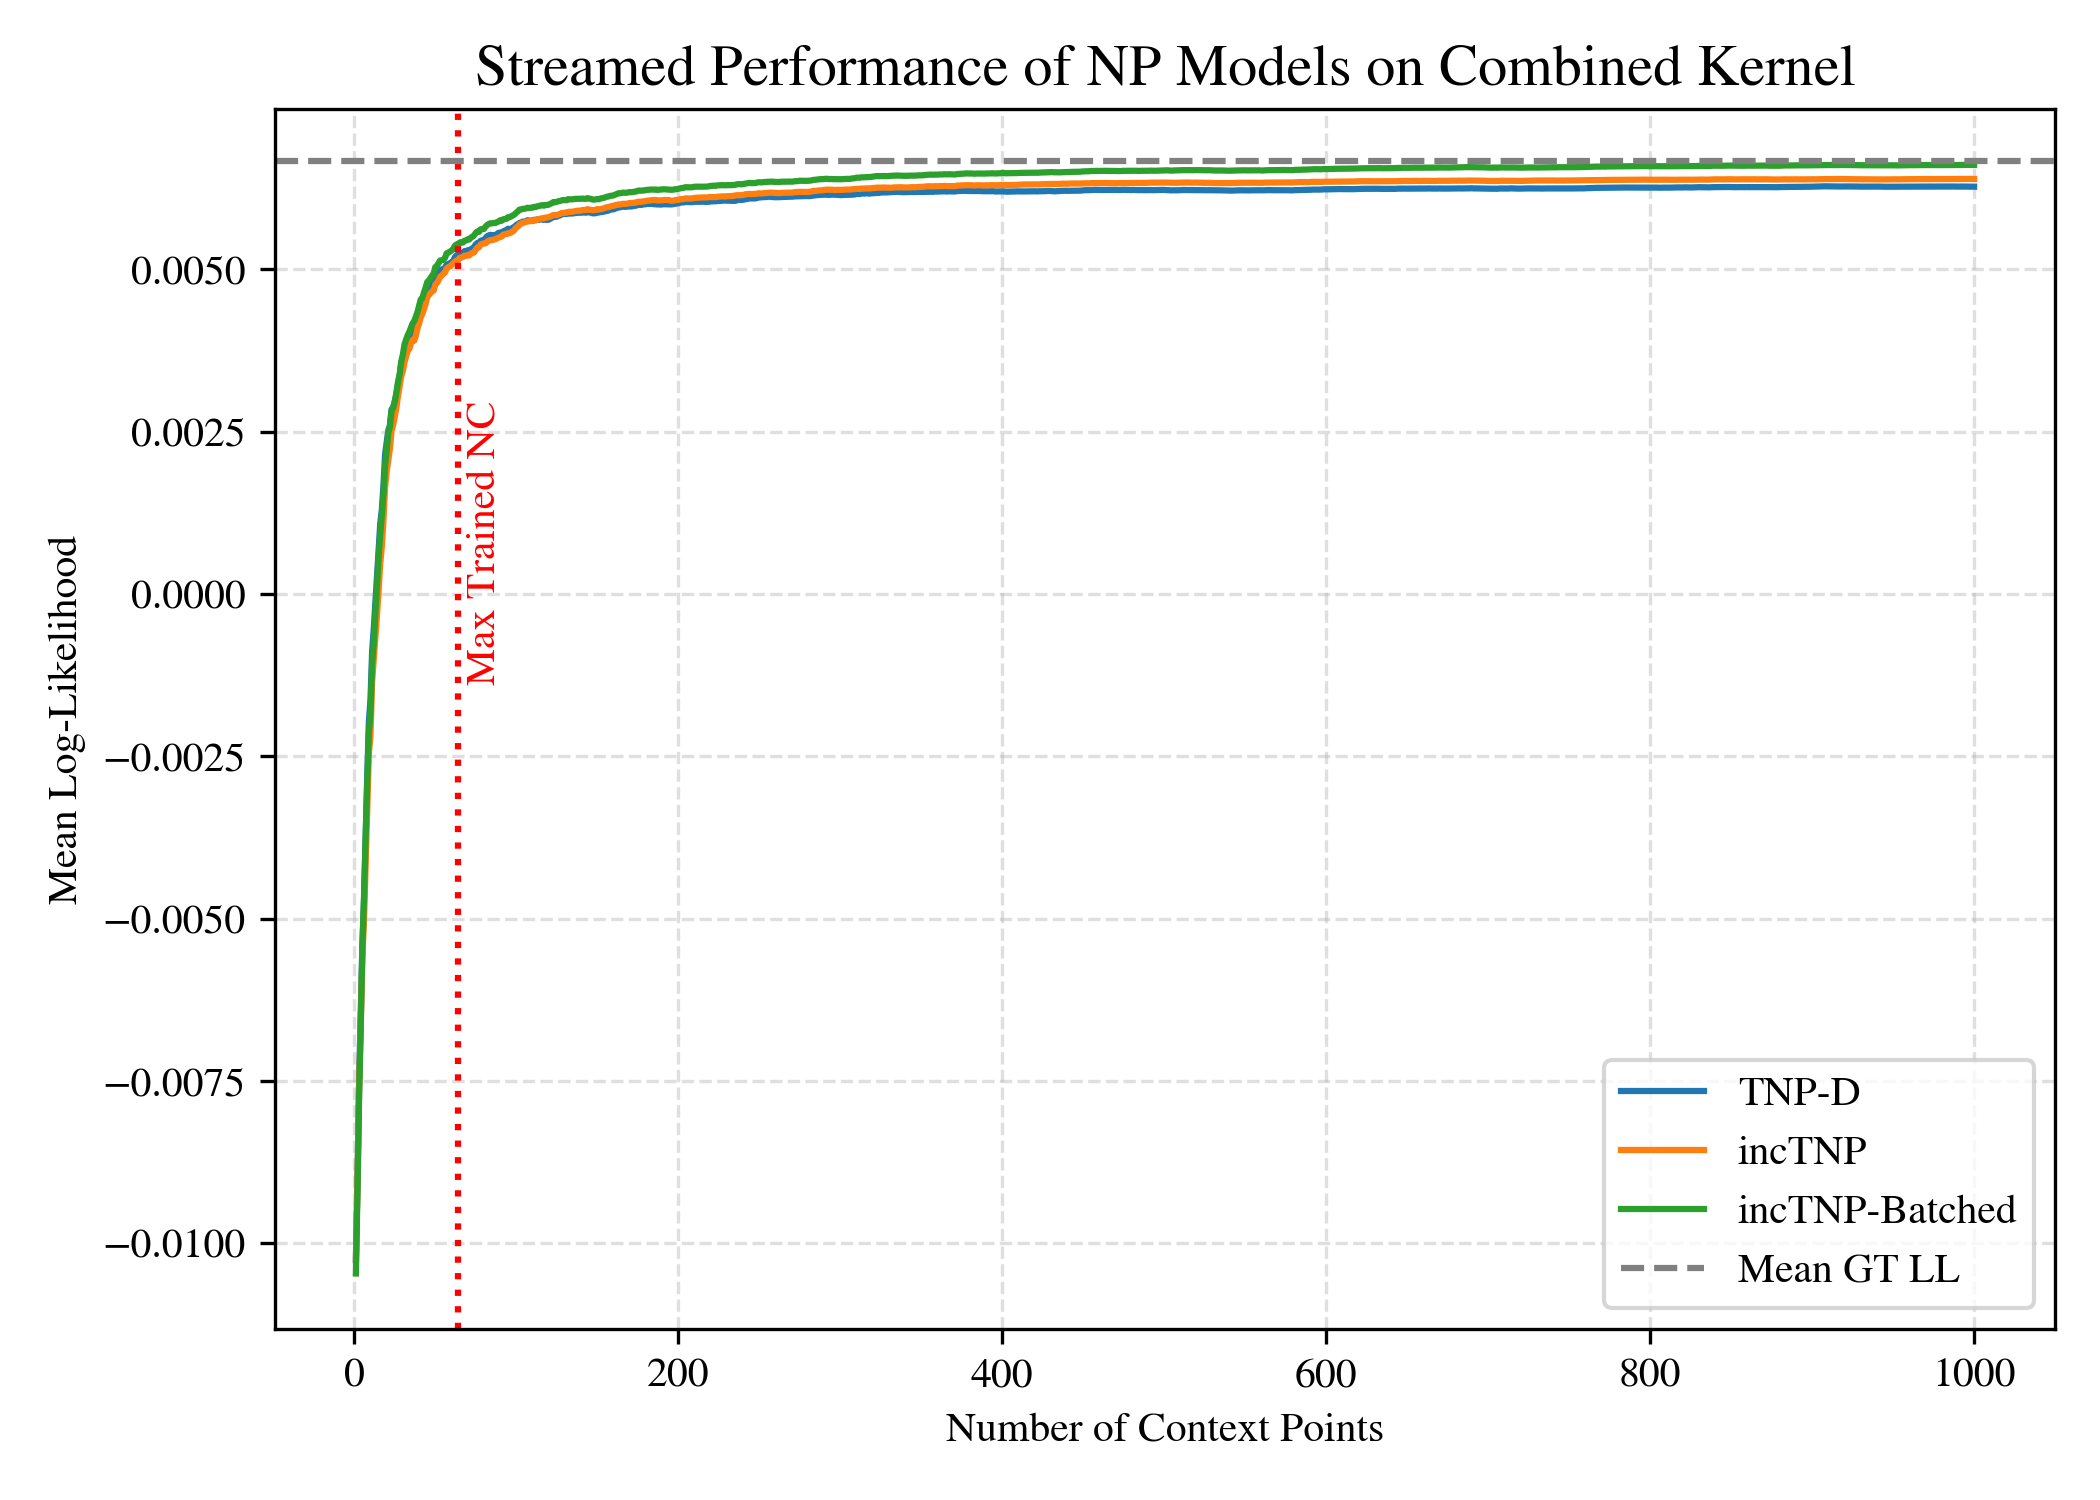
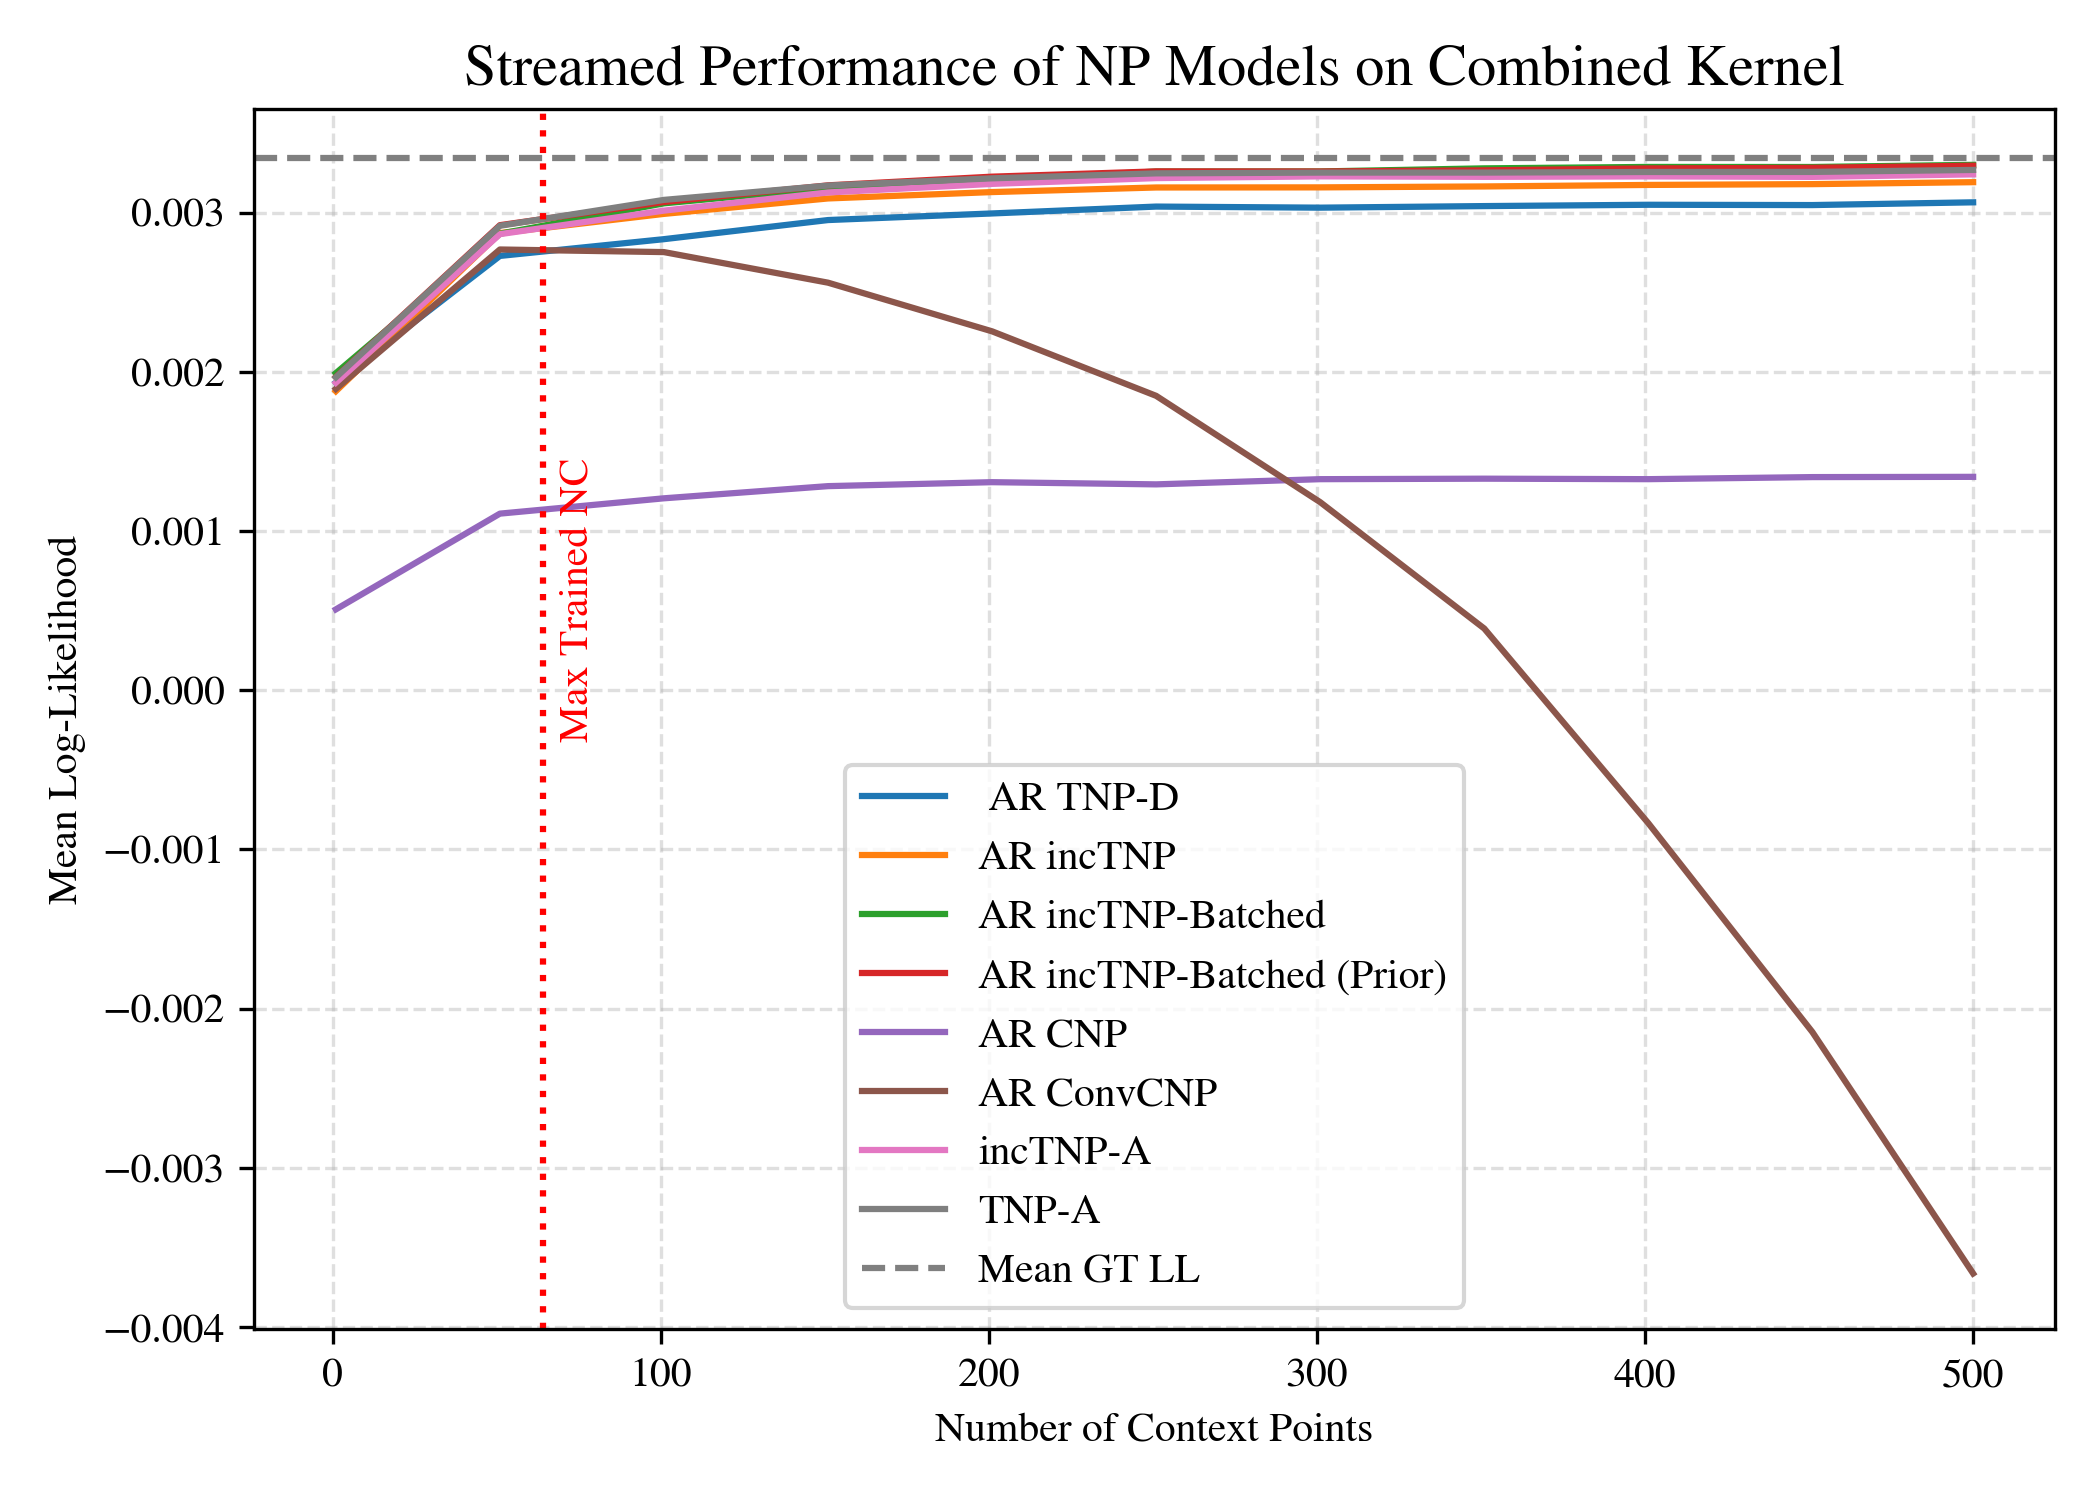
Plots showing that convcnp tails off over time and cnp offers inferior performance

diff --git a/experiments/llstream.py b/experiments/llstream.py
@@ -14,12 +14,35 @@ import torch
 import matplotlib.pyplot as plt
 import matplotlib
 from tqdm import tqdm
+from arnp import ar_loglik
 
 
 matplotlib.rcParams["mathtext.fontset"] = "stix"
 matplotlib.rcParams["font.family"] = "STIXGeneral"
 matplotlib.rcParams["axes.titlesize"]= 14
 
+def get_rbf_rangesame_testset(nc: int, nt: int, batch_size: int):
+    # RBF Dataset
+    min_nc = nc
+    max_nc = nc
+    nt = nt
+    context_range = [[-2.0, 2.0]]
+    target_range = [[-2.0, 2.0]]
+    samples_per_epoch = 4_096
+    batch_size = batch_size
+    noise_std = 0.1
+    deterministic = True
+    ard_num_dims = 1
+    min_log10_lengthscale = -0.602
+    max_log10_lengthscale = 0.0
+    rbf_kernel_factory = partial(RBFKernel, ard_num_dims=ard_num_dims, min_log10_lengthscale=min_log10_lengthscale,
+                         max_log10_lengthscale=max_log10_lengthscale)
+    kernels = [rbf_kernel_factory]
+    gen_test = RandomScaleGPGenerator(dim=1, min_nc=min_nc, max_nc=max_nc, min_nt=nt, max_nt=nt, batch_size=batch_size,
+        context_range=context_range, target_range=target_range, samples_per_epoch=samples_per_epoch, noise_std=noise_std,
+        deterministic=deterministic, kernel=kernels)
+    data = list(gen_test)
+    return data, "RBF Kernel"
 
 # Gets combined dataset with specific number of context points
 def get_combined_rangesame_testset(nc: int, nt: int, batch_size: int):
@@ -57,35 +80,111 @@ def get_combined_rangesame_testset(nc: int, nt: int, batch_size: int):
 def get_model_list_combined():
     # List of models to compare trained on combined kernel
     tnp_plain = ('experiments/configs/synthetic1d/gp_plain_tnp_rangesame.yml',
-        'pm846-university-of-cambridge/plain-tnp-rangesame/model-fyr9u053:v200', 'TNP-D')
+        'pm846-university-of-cambridge/plain-tnp-rangesame/model-fyr9u053:v200', 'TNP-D', False)
     incTNP = ('experiments/configs/synthetic1d/gp_causal_tnp_rangesame.yml', 
-        'pm846-university-of-cambridge/mask-tnp-rangesame/model-l69k9pix:v200', 'incTNP')
+        'pm846-university-of-cambridge/mask-tnp-rangesame/model-l69k9pix:v200', 'incTNP', False)
     batchedTNP = ('experiments/configs/synthetic1d/gp_batched_causal_tnp_rangesame.yml',
-        'pm846-university-of-cambridge/mask-batched-tnp-rangesame/model-lmywe04f:v200', 'incTNP-Batched')
-    priorBatched = ('experiments/configs/synthetic1d/gp_priorbatched_causal_tnp_rbf_rangesame.yml',
-        'pm846-university-of-cambridge/mask-priorbatched-tnp-combined-rangesame/model-xdgnof8x:v200', 'incTNP-Batched (Prior)')
+        'pm846-university-of-cambridge/mask-batched-tnp-rangesame/model-lmywe04f:v200', 'incTNP-Batched', False)
+    priorBatched = ('experiments/configs/synthetic1d/gp_priorbatched_causal_tnp_combined_rangesame.yml',
+        'pm846-university-of-cambridge/mask-priorbatched-tnp-combined-rangesame/model-xdgnof8x:v200', 'incTNP-Batched (Prior)', False)
     cnp = ('experiments/configs/synthetic1d/gp_cnp_rangesame.yml',
-        'pm846-university-of-cambridge/cnp-combined-rangesame/model-1pzsub0x:v200', 'CNP')
+        'pm846-university-of-cambridge/cnp-combined-rangesame/model-1pzsub0x:v200', 'CNP', False)
     conv_cnp = ('experiments/configs/synthetic1d/gp_convcnp_rangesame.yml',
-        'pm846-university-of-cambridge/convcnp-combined-rangesame/model-awxl9sr4:v200', 'ConvCNP')
+        'pm846-university-of-cambridge/convcnp-combined-rangesame/model-awxl9sr4:v200', 'ConvCNP', False)
+    models_plain = [tnp_plain, incTNP, batchedTNP, priorBatched, cnp, conv_cnp]
+    # TNP-A Class models
     inctnpa = ('experiments/configs/synthetic1d/gp_inctnpa_rangesame.yml',
-        'pm846-university-of-cambridge/inctnpa/model-dnbp0124:v199', "incTNP-A")
+        'pm846-university-of-cambridge/inctnpa/model-dnbp0124:v199', "incTNP-A", False)
     tnpa = ('experiments/configs/synthetic1d/gp_tnpa_rangesame.yml',
-        'pm846-university-of-cambridge/tnpa/model-56ktaaqp:v199', "TNP-A")
-    models = [tnp_plain, incTNP, batchedTNP, priorBatched, conv_cnp, cnp, inctnpa, tnpa]
-    return models
+        'pm846-university-of-cambridge/tnpa/model-56ktaaqp:v199', "TNP-A", False)
+    models_a = [inctnpa, tnpa]
+    # AR NPS
+    ar_tnp = ('experiments/configs/synthetic1d/gp_plain_tnp_rangesame.yml',
+        'pm846-university-of-cambridge/plain-tnp-rangesame/model-fyr9u053:v200', ' AR TNP-D', True)
+    ar_inctnp = ('experiments/configs/synthetic1d/gp_causal_tnp_rangesame.yml', 
+        'pm846-university-of-cambridge/mask-tnp-rangesame/model-l69k9pix:v200', 'AR incTNP', True)
+    ar_batchedtnp = ('experiments/configs/synthetic1d/gp_batched_causal_tnp_rangesame.yml',
+        'pm846-university-of-cambridge/mask-batched-tnp-rangesame/model-lmywe04f:v200', 'AR incTNP-Batched', True)
+    ar_priorbatched =('experiments/configs/synthetic1d/gp_priorbatched_causal_tnp_combined_rangesame.yml',
+        'pm846-university-of-cambridge/mask-priorbatched-tnp-combined-rangesame/model-xdgnof8x:v200', 'AR incTNP-Batched (Prior)', True)
+    ar_cnp = ('experiments/configs/synthetic1d/gp_cnp_rangesame.yml',
+        'pm846-university-of-cambridge/cnp-combined-rangesame/model-1pzsub0x:v200', 'AR CNP', True)
+    ar_conv_cnp = ('experiments/configs/synthetic1d/gp_convcnp_rangesame.yml',
+        'pm846-university-of-cambridge/convcnp-combined-rangesame/model-awxl9sr4:v200', 'AR ConvCNP', True)
+    models_ar = [ar_tnp, ar_inctnp, ar_batchedtnp, ar_priorbatched, ar_cnp, ar_conv_cnp]
+    # Return
+    models_combined = models_plain + models_ar + models_a
+    return models_ar + models_a
 
-def stream_data_test_combined():
+def get_model_list_rbf():
+    # List of models to compare trained on rbf kernel
+    tnp_plain = ('experiments/configs/synthetic1dRBF/gp_plain_tnp_rangesame.yml',
+        'pm846-university-of-cambridge/plain-tnp-rbf-rangesame/model-a3qwpptn:v200', 'TNP-D', False)
+    incTNP = ('experiments/configs/synthetic1dRBF/gp_causal_tnp_rangesame.yml', 
+        'pm846-university-of-cambridge/mask-tnp-rbf-rangesame/model-8mxfyfnw:v200', 'incTNP', False)
+    batchedTNP = ('experiments/configs/synthetic1dRBF/gp_batched_causal_tnp_rbf_rangesame.yml',
+        'pm846-university-of-cambridge/mask-batched-tnp-rbf-rangesame/model-xtnh0z37:v200', 'incTNP-Batched', False)
+    priorBatched = ('experiments/configs/synthetic1dRBF/gp_priorbatched_causal_tnp_rbf_rangesame.yml',
+        'pm846-university-of-cambridge/mask-priorbatched-tnp-rbf-rangesame/model-smgj3gn6:v200', 'incTNP-Batched (Prior)', False)
+    cnp = ('experiments/configs/synthetic1dRBF/gp_cnp_rangesame.yml',
+        'pm846-university-of-cambridge/cnp-rbf-rangesame/model-uywfyrx7:v200', 'CNP', False)
+    conv_cnp = ('experiments/configs/synthetic1dRBF/gp_convcnp_rangesame.yml',
+        'pm846-university-of-cambridge/convcnp-rbf-rangesame/model-uj54q1ya:v200', 'ConvCNP', False)
+    models_plain = [tnp_plain, incTNP, batchedTNP, priorBatched, cnp, conv_cnp]
+    # TNP-A Class models
+    inctnpa = ('experiments/configs/synthetic1dRBF/gp_inctnpa_rangesame.yml',
+        'pm846-university-of-cambridge/inctnpa-rbf-rangesame/model-5ob47t8l:v199', "incTNP-A", False)
+    tnpa = ('experiments/configs/synthetic1dRBF/gp_tnpa_rangesame.yml',
+        'pm846-university-of-cambridge/tnpa-rbf-rangesame/model-e6yry1ri:v199', "TNP-A", False)
+    models_a = [inctnpa, tnpa]
+    # AR NPS
+    ar_tnp = ('experiments/configs/synthetic1dRBF/gp_plain_tnp_rangesame.yml',
+        'pm846-university-of-cambridge/plain-tnp-rbf-rangesame/model-a3qwpptn:v200', 'TNP-D', True)
+    ar_inctnp = ('experiments/configs/synthetic1dRBF/gp_causal_tnp_rangesame.yml', 
+        'pm846-university-of-cambridge/mask-tnp-rbf-rangesame/model-8mxfyfnw:v200', 'incTNP', True)
+    ar_batchedtnp = ('experiments/configs/synthetic1dRBF/gp_batched_causal_tnp_rbf_rangesame.yml',
+        'pm846-university-of-cambridge/mask-batched-tnp-rbf-rangesame/model-xtnh0z37:v200', 'incTNP-Batched', True)
+    ar_priorbatched = ('experiments/configs/synthetic1dRBF/gp_priorbatched_causal_tnp_rbf_rangesame.yml',
+        'pm846-university-of-cambridge/mask-priorbatched-tnp-rbf-rangesame/model-smgj3gn6:v200', 'incTNP-Batched (Prior)', True)
+    ar_cnp = ('experiments/configs/synthetic1dRBF/gp_cnp_rangesame.yml',
+        'pm846-university-of-cambridge/cnp-rbf-rangesame/model-uywfyrx7:v200', 'CNP', True)
+    ar_conv_cnp = ('experiments/configs/synthetic1dRBF/gp_convcnp_rangesame.yml',
+        'pm846-university-of-cambridge/convcnp-rbf-rangesame/model-uj54q1ya:v200', 'ConvCNP', True)
+    models_ar = [ar_tnp, ar_inctnp, ar_batchedtnp, ar_priorbatched, ar_cnp, ar_conv_cnp]
+    # Return
+    models_combined = models_plain + models_ar + models_a
+    return models_ar + models_a
+
+
+def stream_data_test_rbf():
     # Hypers
-    burn_in = 1
+    burn_in = 0
     aggregate_over = 1
     batch_size = 16
-    max_batches = 4 # Set to None for no limit
-    max_nc = 1000
+    max_batches = 1 # Set to None for no limit
+    max_nc = 500
     nt = 128
     start_ctx = 1
     end_ctx = max_nc
-    ctx_step = 1
+    ctx_step = 50
+    trained_ctx_end = 64
+    device="cuda"
+    folder = "experiments/plot_results/llstream/"
+    # End of hypers
+    stream_data_test(get_rbf_rangesame_testset(max_nc, nt, batch_size), get_model_list_rbf(), max_nc, nt, start_ctx, end_ctx, ctx_step, device, folder, trained_ctx_end, max_batches, burn_in, aggregate_over)
+
+
+def stream_data_test_combined():
+    # Hypers
+    burn_in = 0
+    aggregate_over = 1
+    batch_size = 16
+    max_batches = 1 # Set to None for no limit
+    max_nc = 500
+    nt = 128
+    start_ctx = 1
+    end_ctx = max_nc
+    ctx_step = 50
     trained_ctx_end = 64
     device="cuda"
     folder = "experiments/plot_results/llstream/"
@@ -103,7 +202,7 @@ def stream_data_test(dataset, models, max_nc, nt, start_ctx, end_ctx, ctx_step, 
     starter, ender = torch.cuda.Event(enable_timing=True), torch.cuda.Event(enable_timing=True)
     gt_lls = np.zeros(len(data))
     gt_ll_caculated = False
-    for model_idx, (model_yml, model_wab, model_name) in enumerate(models):
+    for model_idx, (model_yml, model_wab, model_name, use_ar) in enumerate(models):
         model = get_model(model_yml, model_wab, seed=False, device=device)
         model.eval()
         is_model_inc = isinstance(model, IncUpdateEff)
@@ -125,7 +224,18 @@ def stream_data_test(dataset, models, max_nc, nt, start_ctx, end_ctx, ctx_step, 
                 # Does model burn in and aggregation
                 for j in range(burn_in + aggregate_over):
                     ctx_lower = 0 if ctx_idx == 0 else ctx[ctx_idx - 1]
-                    if is_model_inc:
+                    if use_ar:
+                        xc_new, yc_new = xc[:, :ctx_upper, :], yc[:, :ctx_upper, :]
+                        # Times LL but this doesnt really make sense for a timing as is teacher forcing
+                        torch.cuda.synchronize()
+                        starter.record()
+                        with torch.no_grad():
+                            loglik = ar_loglik(np_model=model, xc=xc_new, yc=yc_new, xt=xt, yt=yt, 
+                                           normalise=True, order="random").mean().item()
+                        ender.record()
+                        torch.cuda.synchronize()
+                        runtime_ms = starter.elapsed_time(ender)
+                    elif is_model_inc:
                         xc_new, yc_new = xc[:, ctx_lower:ctx_upper, :], yc[:, ctx_lower:ctx_upper,  :]
                         # Time the conditioning phase
                         torch.cuda.synchronize()
@@ -137,6 +247,7 @@ def stream_data_test(dataset, models, max_nc, nt, start_ctx, end_ctx, ctx_step, 
                         runtime_ms = starter.elapsed_time(ender)
                         # Gets predictive distribution
                         pred_dist = model.query(xt=xt, dy=dy)
+                        loglik = (pred_dist.log_prob(yt).sum() / yt[..., 0].numel()).item()
                     else:
                         xc_new, yc_new = xc[:, :ctx_upper, :], yc[:, :ctx_upper, :]
                         batch = Batch(xc=xc_new, yc=yc_new, xt=xt, yt=yt, x=None, y=None)
@@ -148,7 +259,7 @@ def stream_data_test(dataset, models, max_nc, nt, start_ctx, end_ctx, ctx_step, 
                         ender.record()
                         torch.cuda.synchronize()
                         runtime_ms = starter.elapsed_time(ender)
-                    loglik = (pred_dist.log_prob(yt).sum() / yt[..., 0].numel()).item() # TODO Check this for AR cases is correctly handled
+                        loglik = (pred_dist.log_prob(yt).sum() / yt[..., 0].numel()).item()
                     # Records likelihood and runtime
                     write_idx = j - burn_in
                     if write_idx >= 0:
@@ -162,7 +273,7 @@ def stream_data_test(dataset, models, max_nc, nt, start_ctx, end_ctx, ctx_step, 
     # Plots LL as context size increases - red dotted line to show when going beyond trained context size
     ll_file_name = folder + f'll_kernel_{kernel_name}.png'
     fig, ax = plt.subplots(figsize=(7, 5))
-    for model_idx, (model_yml, model_wab, model_name) in enumerate(models):
+    for model_idx, (model_yml, model_wab, model_name, use_ar) in enumerate(models):
         ax.plot(ctx, ll_list[model_idx], label=model_name)
     ax.axvline(x=trained_ctx_end, color='red', linestyle=':')
     ax.axhline(y=gt_average, color='grey', linestyle='--', label='Mean GT LL')
@@ -177,7 +288,7 @@ def stream_data_test(dataset, models, max_nc, nt, start_ctx, end_ctx, ctx_step, 
     # Plots conditioning time vs number of context points
     runtime_file_name = folder + f'runtime_kernel_{kernel_name}.png'
     fig, ax = plt.subplots(figsize=(7, 5))
-    for model_idx, (model_yml, model_wab, model_name) in enumerate(models):
+    for model_idx, (model_yml, model_wab, model_name, use_ar) in enumerate(models):
         ax.plot(ctx, condition_time_list[model_idx], label=model_name)
     ax.set_xlabel('Number of Context Points')
     ax.set_ylabel('Mean Conditioning Time (ms)')
@@ -190,5 +301,7 @@ def stream_data_test(dataset, models, max_nc, nt, start_ctx, end_ctx, ctx_step, 
                 
 
 if __name__ == "__main__":
+    stream_data_test_rbf()
     stream_data_test_combined()
+    # TODO look at distribution drift maybe
 
